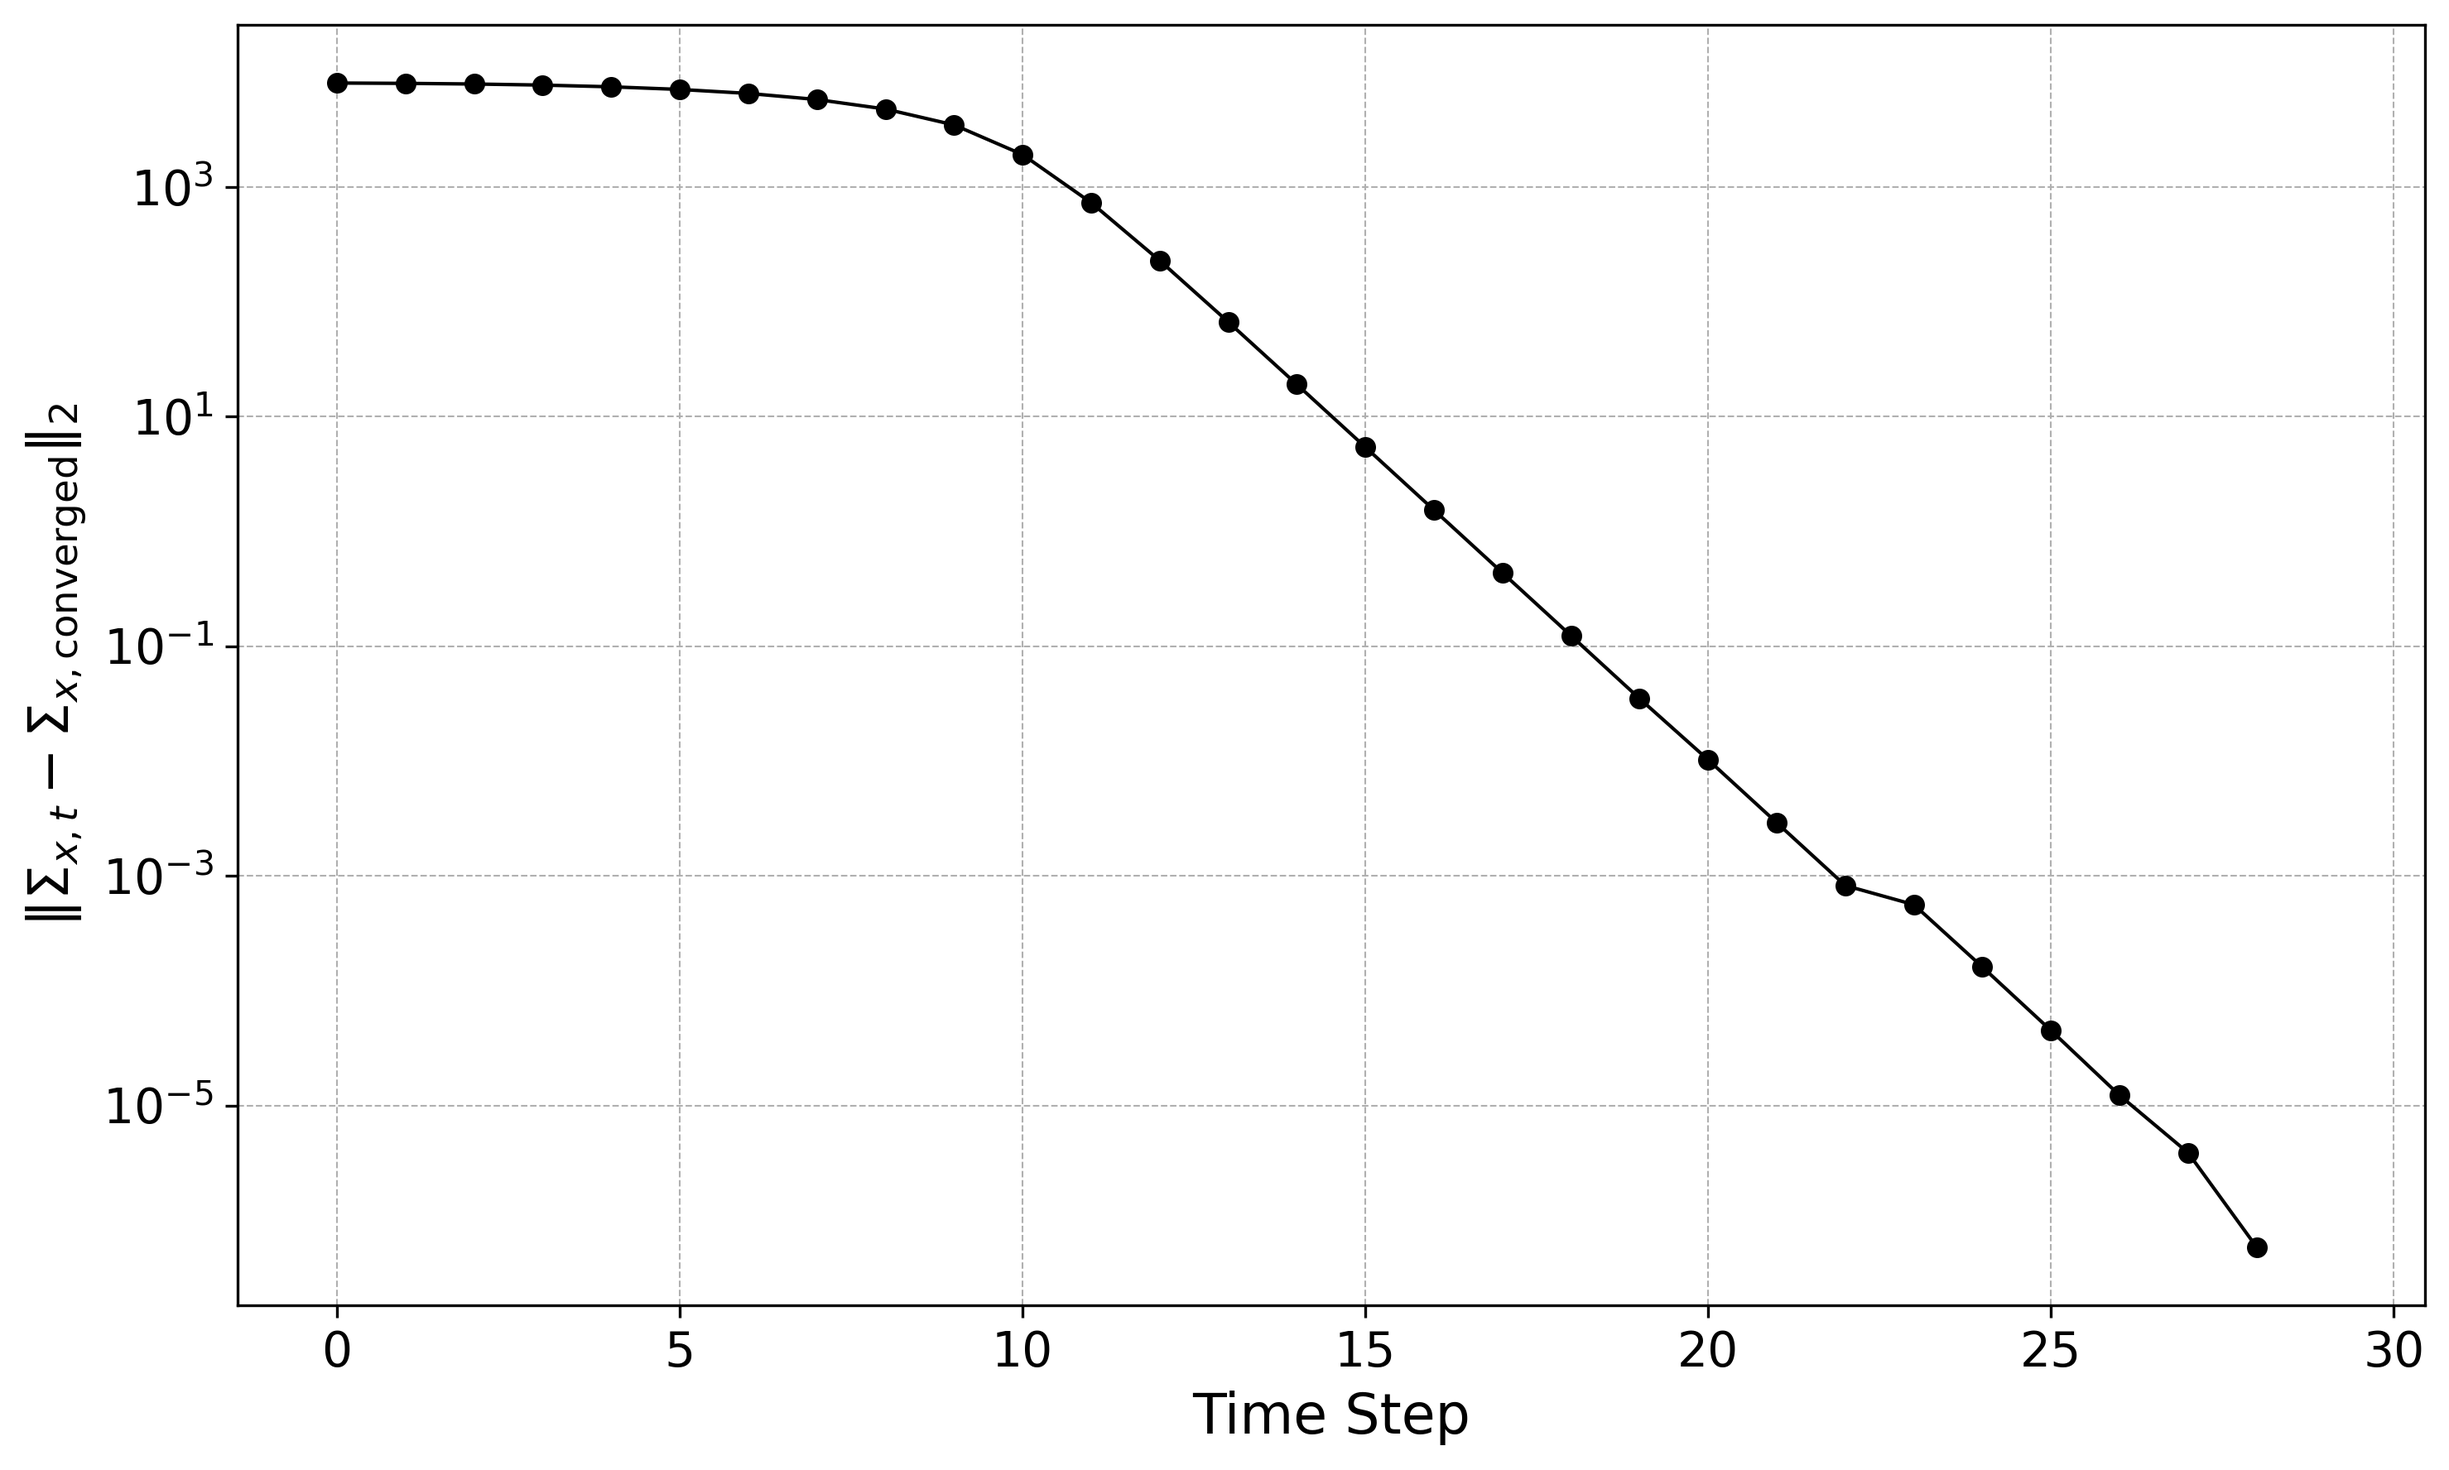
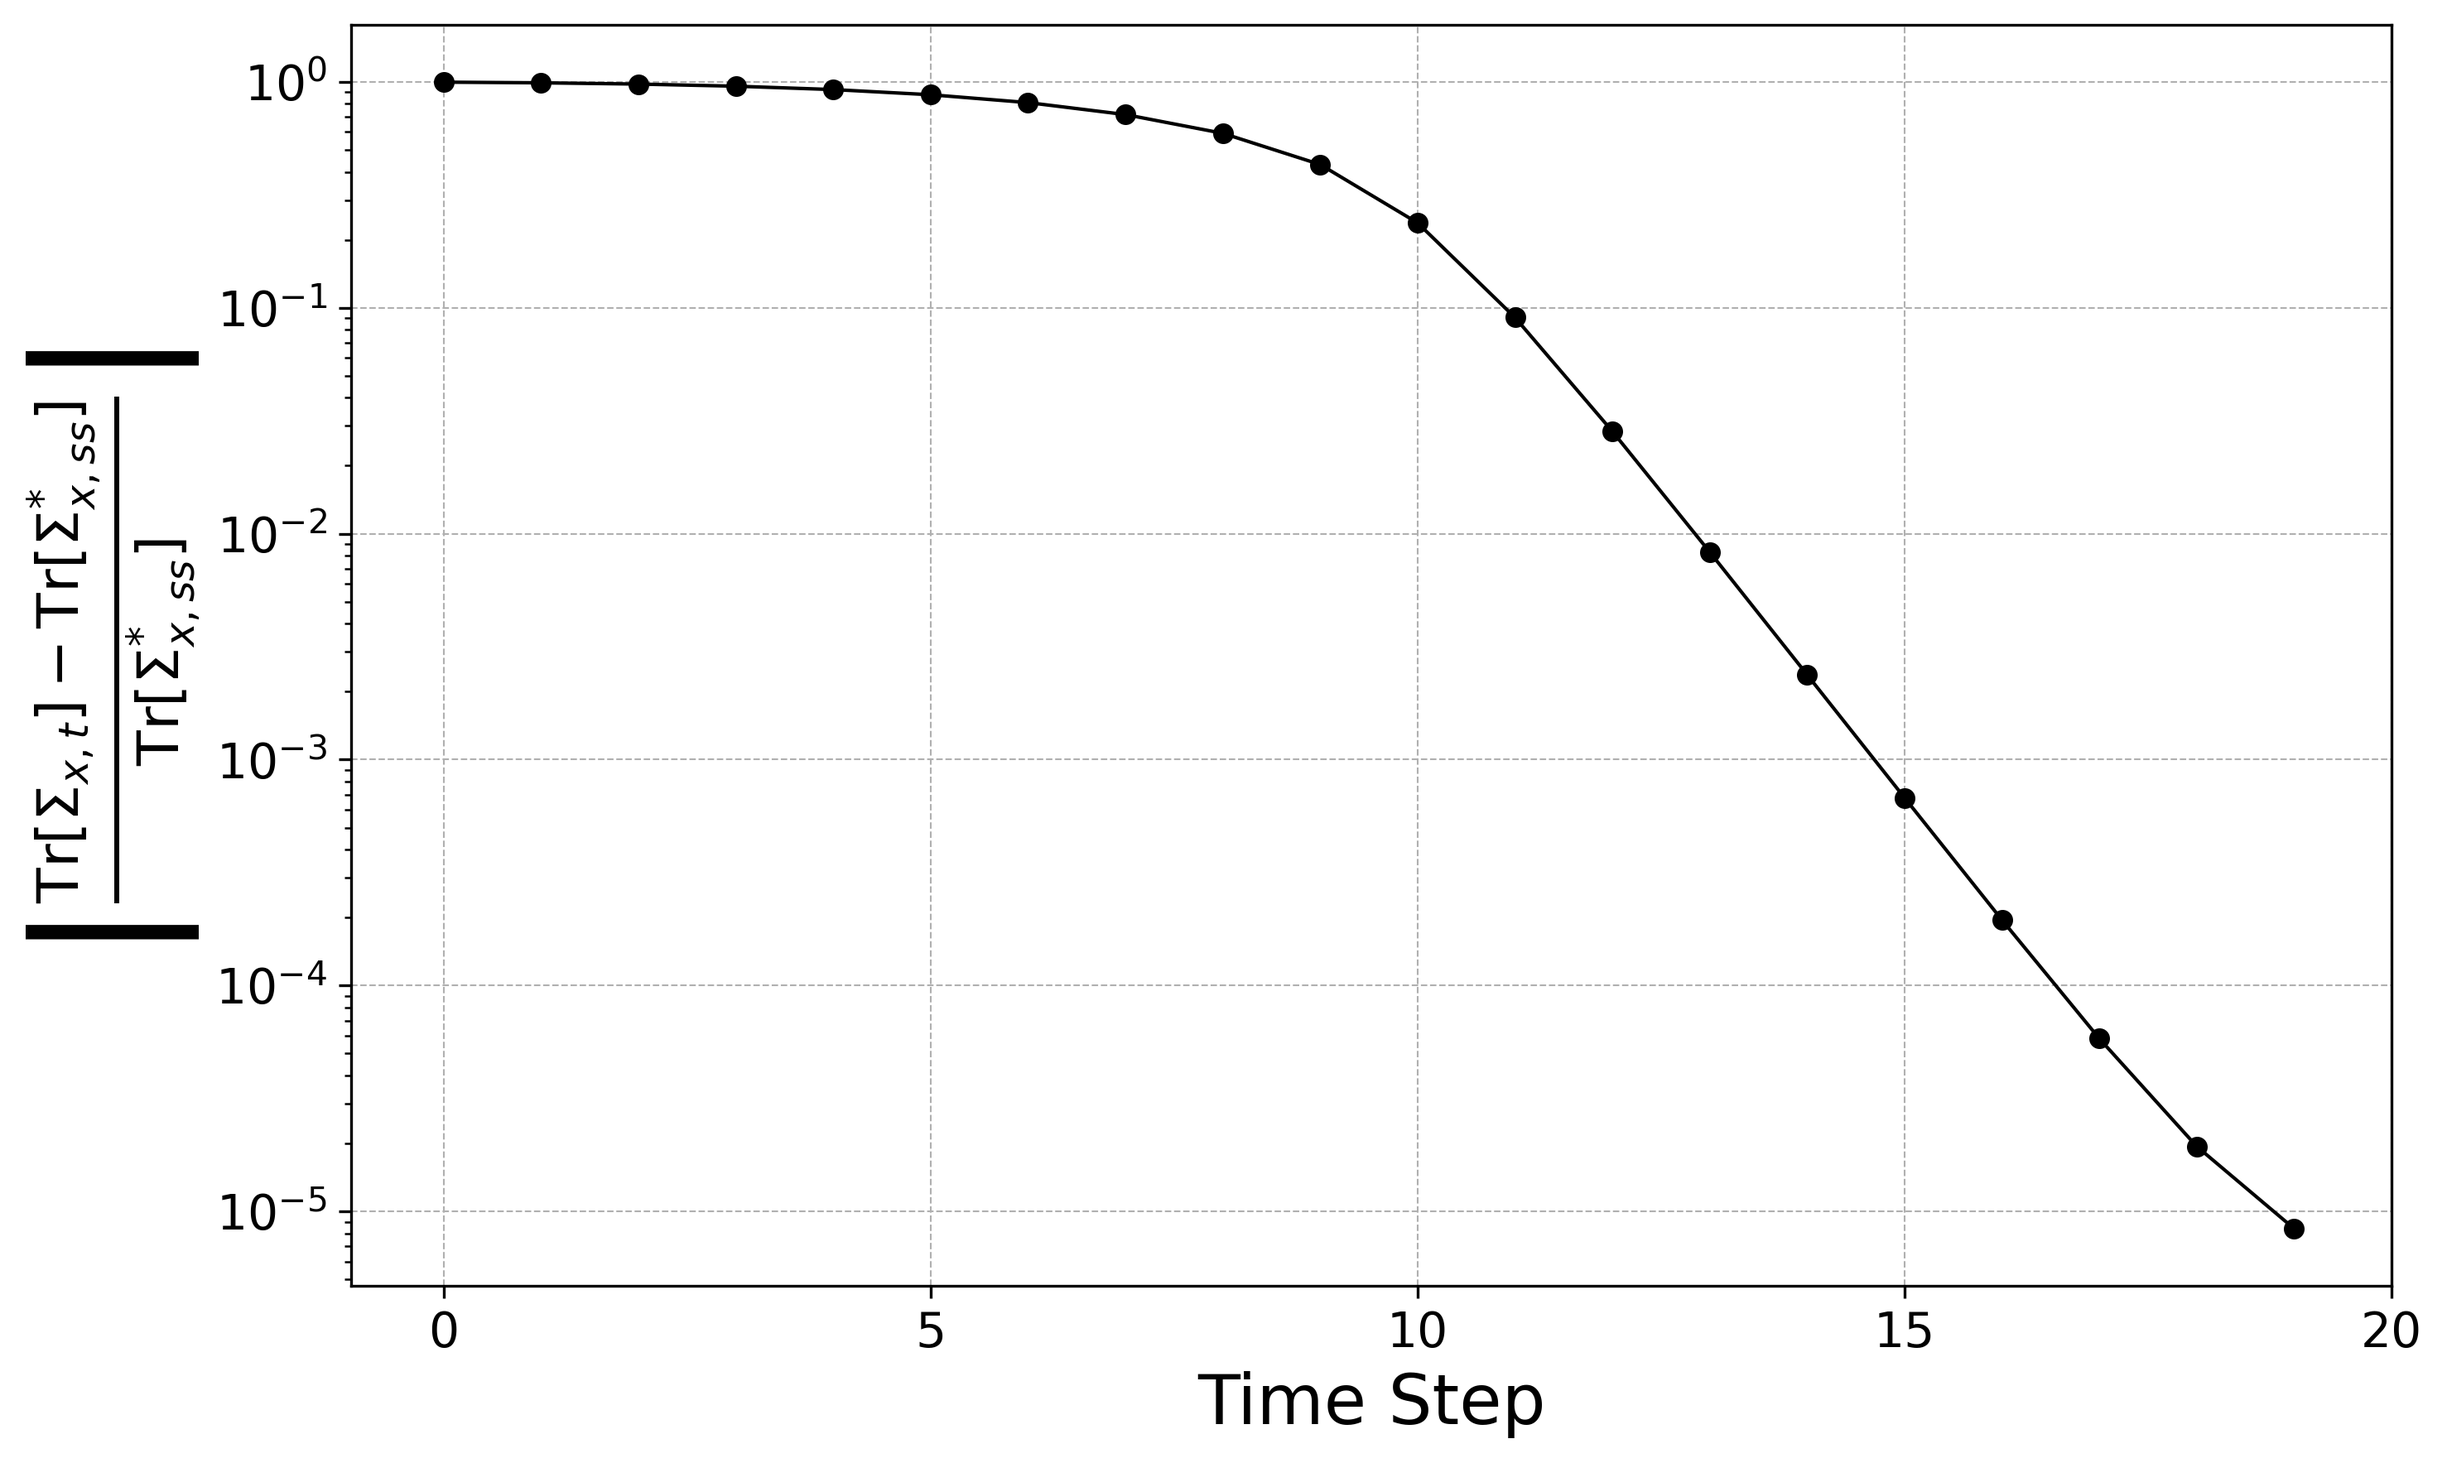
29MAR25

diff --git a/convergence_check.py b/convergence_check.py
@@ -80,7 +80,35 @@ def check_assumptions(A, Sigma_w_nom, C, Sigma_v_nom, T):
         raise ValueError(f"O_T does not have full column rank; (A, C) may not be observable with T={T}")
     print("Assumptions verified.")
 
-
+# -------------------------------------------------------
+# DR Kalman filter measurement update (infinite-horizon version)
+# -------------------------------------------------------
+def dr_kf_solve_measurement_inf(A, C, Sigma_w_nom, Sigma_v_nom, theta_x, delta=1e-6):
+    n = C.shape[1]
+    m = Sigma_v_nom.shape[0]
+    Sigma_x_var = cp.Variable((n, n), PSD=True)
+    Sigma_x_minus_var = cp.Variable((n, n), PSD=True)
+    Sigma_x_minus_hat_var = cp.Variable((n, n), PSD=True)
+    Y = cp.Variable((n, n))
+    
+    obj = cp.Maximize(cp.trace(Sigma_x_var))
+    
+    constraints = [
+        cp.bmat([
+            [Sigma_x_minus_var - Sigma_x_var, Sigma_x_minus_var @ C.T],
+            [C @ Sigma_x_minus_var, C @ Sigma_x_minus_var @ C.T + Sigma_v_nom]
+        ]) >> 0,
+        cp.trace(Sigma_x_minus_hat_var + Sigma_x_minus_var - 2*Y) <= theta_x**2,
+        cp.bmat([[Sigma_x_minus_hat_var, Y],
+                 [Y.T, Sigma_x_minus_var]
+                ]) >> 0,
+        Sigma_x_minus_hat_var == A @ Sigma_x_var @ A.T + Sigma_w_nom
+    ]
+    
+    prob = cp.Problem(obj, constraints)
+    prob.solve(solver=cp.MOSEK, verbose=False)
+    
+    return Sigma_x_var.value
 # -------------------------------------------------------
 # DR Kalman filter measurement update (only theta_x version)
 # -------------------------------------------------------
@@ -254,19 +282,27 @@ def run_dr_kf_once(n=10, m=10, steps=200, T=20, q=100, tol=1e-4):
         Sigma_x_minus = np.eye(n)
         posterior_list = []
         conv_norms = []
+        trace_rel_diff_list = []  # List to store relative trace differences
         
+        # Compute the infinite-horizon covariance using the SDP formulation
+        Sigma_x_inf = dr_kf_solve_measurement_inf(A, C, Sigma_w_nom, Sigma_v_nom, theta_max)
         for step in range(steps):
             try:
                 Sigma_x_sol = dr_kf_solve_measurement_update(Sigma_x_minus, A, C, Sigma_v_nom, theta_max)
             except cp.error.SolverError:
                 return None
             posterior_list.append(Sigma_x_sol)
+            
+            # Compute the relative trace difference
+            current_rel_trace_diff = abs(np.trace(Sigma_x_inf) - np.trace(Sigma_x_sol)) / np.trace(Sigma_x_inf)
+            trace_rel_diff_list.append(current_rel_trace_diff)
+            
             if step > 0:
                 diff_norm = np.linalg.norm(posterior_list[step] - posterior_list[step-1], 'fro')
                 conv_norms.append(diff_norm)
-                if diff_norm < tol:
-                    print(f"Early stopping at iteration {step} with convergence norm {diff_norm:.4e}")
-                    break
+                # if diff_norm < tol:
+                #     print(f"Early stopping at iteration {step} with convergence norm {diff_norm:.4e}")
+                #     break
             Sigma_x_minus = A @ Sigma_x_sol @ A.T + Sigma_w_nom
             
         print("--------------------------------------------------")
@@ -282,7 +318,9 @@ def run_dr_kf_once(n=10, m=10, steps=200, T=20, q=100, tol=1e-4):
             "phi_T": phi_T,
             "theta_max": theta_max,
             "posterior_list": posterior_list,
-            "conv_norms": conv_norms
+            "conv_norms": conv_norms,
+            "trace_rel_diff_list": trace_rel_diff_list,
+            "Sigma_x_inf": Sigma_x_inf
         }
     except (cp.error.SolverError, Exception):
         return None
@@ -298,7 +336,7 @@ if __name__=="__main__":
     # Run with longer time horizon: steps increased to 1000
     while len(valid_experiments) < num_exp:
         results = Parallel(n_jobs=1)(
-            delayed(run_dr_kf_once)(n=2, m=1, steps=1000, T=8, q=20, tol=tol)
+            delayed(run_dr_kf_once)(n=2, m=1, steps=20, T=8, q=20, tol=tol)
             for _ in range(batch_size)
         )
         for res in results:
@@ -307,7 +345,7 @@ if __name__=="__main__":
                 final_norm = res["conv_norms"][-1] if res["conv_norms"] else float('inf')
                 if final_norm < tol:
                     success_count += 1
-                print(f"\nValid experiment count: {len(valid_experiments)}/{num_exp}")
+                #print(f"\nValid experiment count: {len(valid_experiments)}/{num_exp}")
                 if len(valid_experiments) >= num_exp:
                     break
 
@@ -320,25 +358,22 @@ if __name__=="__main__":
     # --------------------------
     res = valid_experiments[0]
     posterior_list = res["posterior_list"]
-
+    Sigma_x_inf = res["Sigma_x_inf"]
+    
     converged_cov = posterior_list[-1]
 
     # Compute the 2-norm error for each time step with respect to the converged covariance
     errors_conv = [np.linalg.norm(S - converged_cov, 2) for S in posterior_list]
 
 
-    # Plot the convergence error (posterior vs. converged)
     plt.figure(figsize=(10, 6))
-    # Plot all but the last point with a line
-    plt.semilogy(range(len(errors_conv)-1), errors_conv[:-1],
+    plt.semilogy(range(len(res["trace_rel_diff_list"])), res["trace_rel_diff_list"],
                 marker='o', linestyle='-', linewidth=1, markersize=5, color='black')
-    # Plot the last point
-    plt.semilogy(len(errors_conv)-1, errors_conv[-1],
-                marker='o', linestyle='None', markersize=5, color='black')
-    plt.xlabel('Time Step', fontsize=16)
-    plt.ylabel(r'$\|\Sigma_{x,t} - \Sigma_{x,\mathrm{converged}}\|_2$', fontsize=16)
-    plt.grid(True, which='both', linestyle='--', linewidth=0.5)
+    plt.xlabel('Time Step', fontsize=20)
+    plt.ylabel(r'$\left|\frac{\mathrm{Tr}[\Sigma_{x,t}] - \mathrm{Tr}[\Sigma_{x,ss}^{*}]}{\mathrm{Tr}[\Sigma_{x,ss}^{*}]}\right|$', fontsize=24)
+    plt.grid(True, which='major', linestyle='--', linewidth=0.5)
     plt.tick_params(axis='both', which='major', labelsize=14)
+    plt.xticks([0, 5, 10, 15, 20])
     plt.tight_layout()
     plt.savefig('convergence_rate_analysis.png', dpi=300, bbox_inches='tight')
     plt.show()
